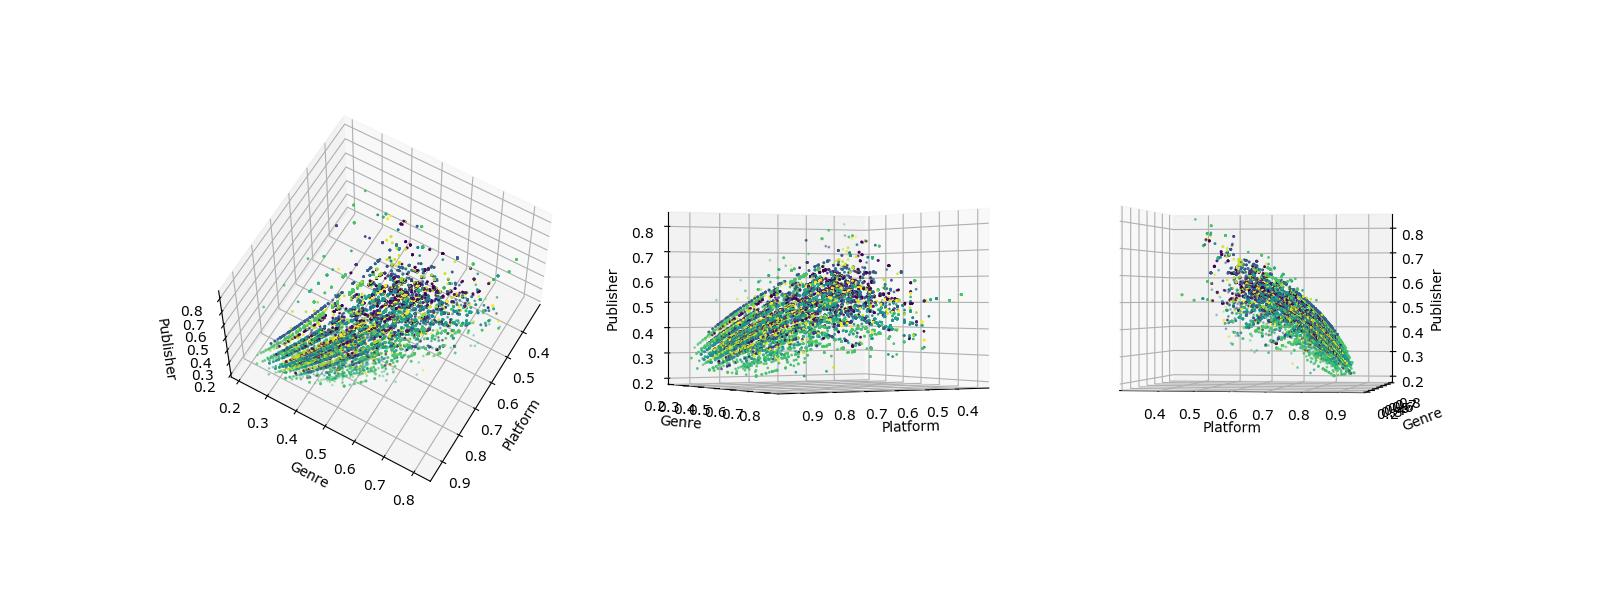
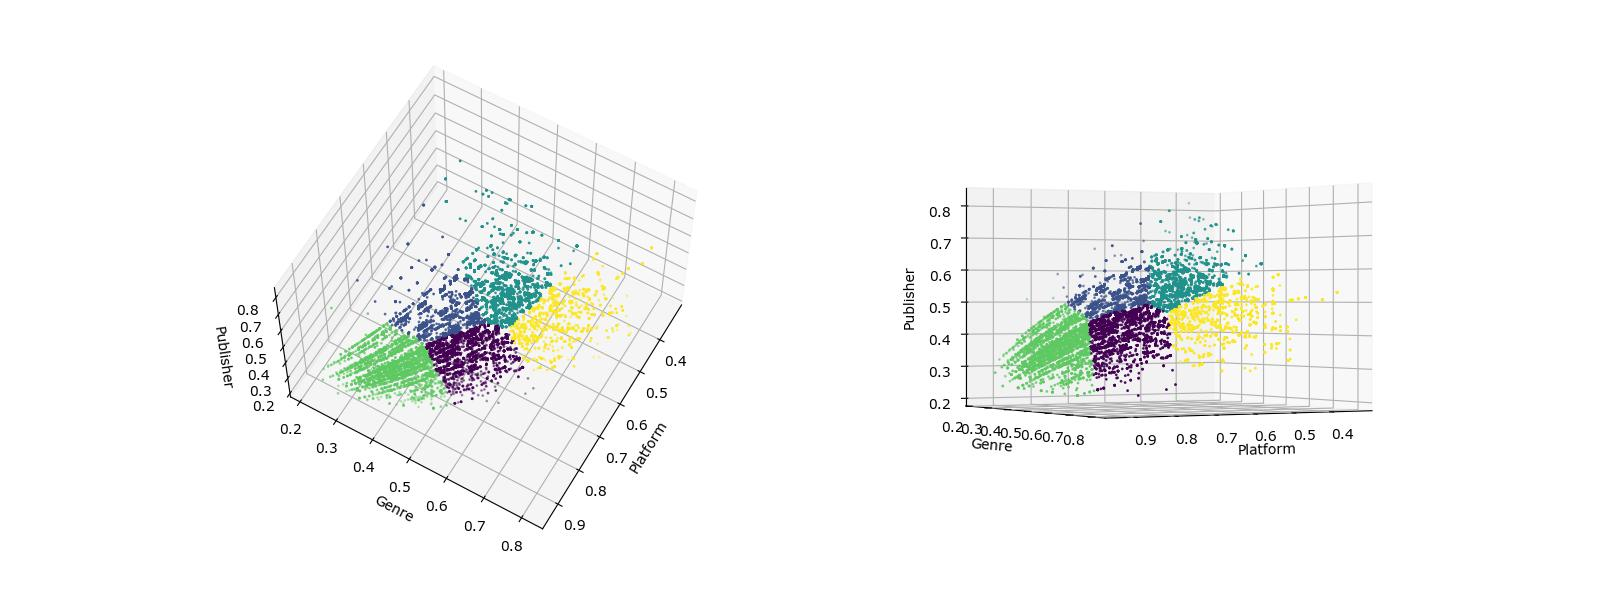
try different clusterization algorithms

diff --git a/scripts/clusters/helpers.py b/scripts/clusters/helpers.py
@@ -4,7 +4,9 @@ pd.options.mode.chained_assignment = None
 import matplotlib.pyplot as plt
 from kneed import KneeLocator
 from sklearn.feature_extraction.text import TfidfVectorizer
-from scripts.config import ASSET_PATH_ELBOWPLOT, ASSET_PATH_CLUSTERSPLOT
+from sklearn.metrics import silhouette_score, calinski_harabasz_score, davies_bouldin_score
+from scripts.config import ASSET_PATH_ELBOWPLOT, ASSET_PATH_CLUSTERSPLOT, \
+    ASSET_PATH_CLUSTERS_VALUATION
 
 
 def draw_graph(x_range, y, labels) -> None:
@@ -15,23 +17,6 @@ def draw_graph(x_range, y, labels) -> None:
     plt.ylabel(labels[1])
     plt.grid(linestyle='--')
     plt.show()
-
-
-def remove_symbols(dataset: DataFrame, cols: list):
-    return dataset[cols].replace([r"[^A-Za-z0-9]+"], [""], regex=True)
-
-
-def combine_data(dataset: DataFrame, cols: list):
-    combined_data = dataset[cols].apply(lambda row: \
-        ' '.join(row.values.astype(str)), axis=1)
-    return combined_data
-
-
-def vectorize_data(dataset: DataFrame, cols: list):
-    data = remove_symbols(dataset, cols)
-    combined_data = combine_data(data, cols)
-    vectorizer = TfidfVectorizer(stop_words='english')
-    return vectorizer.fit_transform(list(combined_data))
 
 
 def get_sum_of_square_errors(features: DataFrame, algorithm: object, max_kernels: int, **kwargs: dict) -> list:
@@ -55,7 +40,7 @@ def get_clusters(features: DataFrame, algorithm: object, **kwargs: dict):
 
 
 def cluster_predict(elements, model):
-    return model.predict(elements)
+    return model.fit(elements)
 
   
 def plot_elbow_test(sse : list) -> None:
@@ -64,13 +49,6 @@ def plot_elbow_test(sse : list) -> None:
     plt.ylabel("SSE")
     plt.savefig(ASSET_PATH_ELBOWPLOT)
 
-
-def devide_array(array : list, n: int):
-    devided_arrays = [[] for i in range(n)]
-    for i in range(0, len(array), n):
-        for j in range(n):
-            devided_arrays[j].append(array[i+j])
-    return devided_arrays
 
 
 def draw_subplot(fig: plt.figure, pos: int, data: list, 
@@ -86,10 +64,15 @@ def draw_subplot(fig: plt.figure, pos: int, data: list,
 
 def show_clusters(features, cols: list, y_kmeans): 
     fig = plt.figure(figsize=(16,6))
-    draw_subplot(fig, 131, features, y_kmeans, 
+    draw_subplot(fig, 121, features, y_kmeans, 
                 view=(60, 30), labels = cols)
-    draw_subplot(fig, 132, features, y_kmeans, 
+    draw_subplot(fig, 122, features, y_kmeans, 
                 view=(0, 60), labels = cols)
-    draw_subplot(fig, 133, features, y_kmeans,
-                view=(0, -80), labels = cols)
     plt.savefig(ASSET_PATH_CLUSTERSPLOT)
+
+
+def print_cluster_evaluation(features, clusters: int):
+    with open(ASSET_PATH_CLUSTERS_VALUATION, 'w') as file:
+        file.write(f'Silhouette Score: {silhouette_score(features, clusters)}\n') # max is better
+        file.write(f'Calinski-Harabasz Index: {calinski_harabasz_score(features, clusters)}\n') # max is better
+        file.write(f'Davies-Bouldin Index: {davies_bouldin_score(features, clusters)}\n') # min is better

diff --git a/scripts/utils/recommendation_system.py b/scripts/utils/recommendation_system.py
@@ -1,13 +1,11 @@
-from pyexpat import features
-from typing import List
 from pandas import DataFrame
 from sklearn.cluster import KMeans, BisectingKMeans, SpectralClustering
 from sklearn.mixture import GaussianMixture
-from sklearn.metrics import silhouette_score
-from scripts.clusters.helpers import plot_elbow_test, get_clusters, devide_array,\
-get_clusters_count, get_sum_of_square_errors, cluster_predict, vectorize_data, show_clusters
+from scripts.clusters.helpers import plot_elbow_test, get_clusters, print_cluster_evaluation,\
+get_clusters_count, get_sum_of_square_errors, cluster_predict, show_clusters
 from scripts.clusters.kwargs import kmeans_kwargs, bisecting_kmeans_kwargs, \
     spectral_kwargs, gaussian_mixture_kwargs
+
 
 class RecommendationSystem:
 
@@ -19,7 +17,6 @@ class RecommendationSystem:
 
     def build_system(self, x_cols: list):
         features = self.__dataset[x_cols]
-        # features = vectorize_data(self.__dataset, x_cols)
         cluster_algo = KMeans
         kwargs = kmeans_kwargs
 
@@ -27,13 +24,12 @@ class RecommendationSystem:
         sse = get_sum_of_square_errors(features, cluster_algo, max_kernels, **kwargs)
         
         n_clusters= get_clusters_count(sse)
-        self.__model = get_clusters(features, cluster_algo, n_clusters=n_clusters, **kwargs)
+        self.__model = get_clusters(features, cluster_algo, n_components=n_clusters, **kwargs)
 
         clusters = cluster_predict(features, self.__model)
         self.__dataset['Cluster_Prediction']=list(clusters)  
 
-        print(f'Silhouette Score: {silhouette_score(features, clusters)}')
-        # self.show_clusters_info(sse, features)     
+        self.show_clusters_info(sse, features, clusters)     
 
 
     def recommend(self, element: DataFrame, dataset: DataFrame, count: int = 10) -> DataFrame:
@@ -49,7 +45,8 @@ class RecommendationSystem:
         return dataset[dataset['Rank'].isin(list(recommendations['Rank'].values))]
 
 
-    def show_clusters_info(self, sse: list, features):
+    def show_clusters_info(self, sse: list, features, clusters: int):
+        print_cluster_evaluation(features, clusters)
         plot_elbow_test(sse)
         show_clusters(features, cols = ['Platform', 'Genre', 'Publisher'], 
                     y_kmeans = list(self.__dataset['Cluster_Prediction']))

diff --git a/scripts/utils/dataset_scaler.py b/scripts/utils/dataset_scaler.py
@@ -16,39 +16,11 @@ class DatasetScaler:
         return self.__dataset
 
 
-    def get_scaled_value(self, value: str, column: str):
-        if column not in self.__dictionary.keys():
-            return value
-        return self.__dictionary[column][value]
-
-
     def __scale(self) -> None:
-        self.__dictionary = dict()
-        for column in self.__columns:
-            self.__dictionary[column]=self.__get_column_dictionary(column)
-            self.__replace_data(column)
-        # vectorized_data = self.__vectorize_data().tocoo().data
-        # divided_data = self.__divide_array(vectorized_data, len(self.__columns))
-        # for i in range(len(self.__columns)):
-        #     self.__dataset[self.__columns[i]]=divided_data[i]
-
-
-    def __replace_data(self, column) -> None:
-        self.__dataset[column] = self.__dataset[column].replace(
-            self.__dictionary[column].keys(), 
-            self.__dictionary[column].values())
-
-    
-    def __get_column_dictionary(self, column: str) -> dict:
-        dictionary = dict()
-        for element in self.__dataset[column]:
-            if element not in dictionary:
-                dictionary[element] = 1
-            else:
-                dictionary[element] += 1
-        for key, val in dictionary.items():
-            dictionary[key] = val/len(self.__dataset)
-        return dictionary
+        vectorized_data = self.__vectorize_data().tocoo().data
+        divided_data = self.__divide_array(vectorized_data, len(self.__columns))
+        for i in range(len(self.__columns)):
+            self.__dataset[self.__columns[i]]=divided_data[i]
 
 
     def __divide_array(self, array : list, n: int):

diff --git a/scripts/main.py b/scripts/main.py
@@ -1,5 +1,3 @@
-from numpy import rec
-from pandas import DataFrame
 from pickle import dump
 from scripts.cleansing import cleanse_data
 from scripts.config import ASSET_PATH_REGRESSIONS_DUMP, DATA_PATH_VGSALES
@@ -41,11 +39,10 @@ cleanse_data(
 x_cols = ["Platform", "Genre", "Publisher"]
 dataset_scaler = DatasetScaler(dataset, x_cols)
 
-# recommendation = RecommendationSystem(dataset)
 recommendation = RecommendationSystem(dataset_scaler.scaled_dataset)
 recommendation.build_system(x_cols)
 
 test = dataset.iloc[[100]]
 print(test[["Name"]+x_cols], '\n')
 recommendations = recommendation.recommend(test, dataset)
-print(str(recommendations[x_cols]))
+print(str(recommendations[["Name"]+x_cols]))

diff --git a/scripts/config.py b/scripts/config.py
@@ -3,5 +3,6 @@ DATA_PATH_SALES = "data/sales.csv"
 
 ASSET_PATH_ELBOWPLOT = "assets/elbow-test.jpg"
 ASSET_PATH_CLUSTERSPLOT = "assets/clusters.jpg"
+ASSET_PATH_CLUSTERS_VALUATION = "assets/clusters-values.txt"
 ASSET_PATH_GAMESMODEL = "assets/games-model.mdl"
 ASSET_PATH_REGRESSIONS_DUMP = "assets/regessions-scores.txt"
